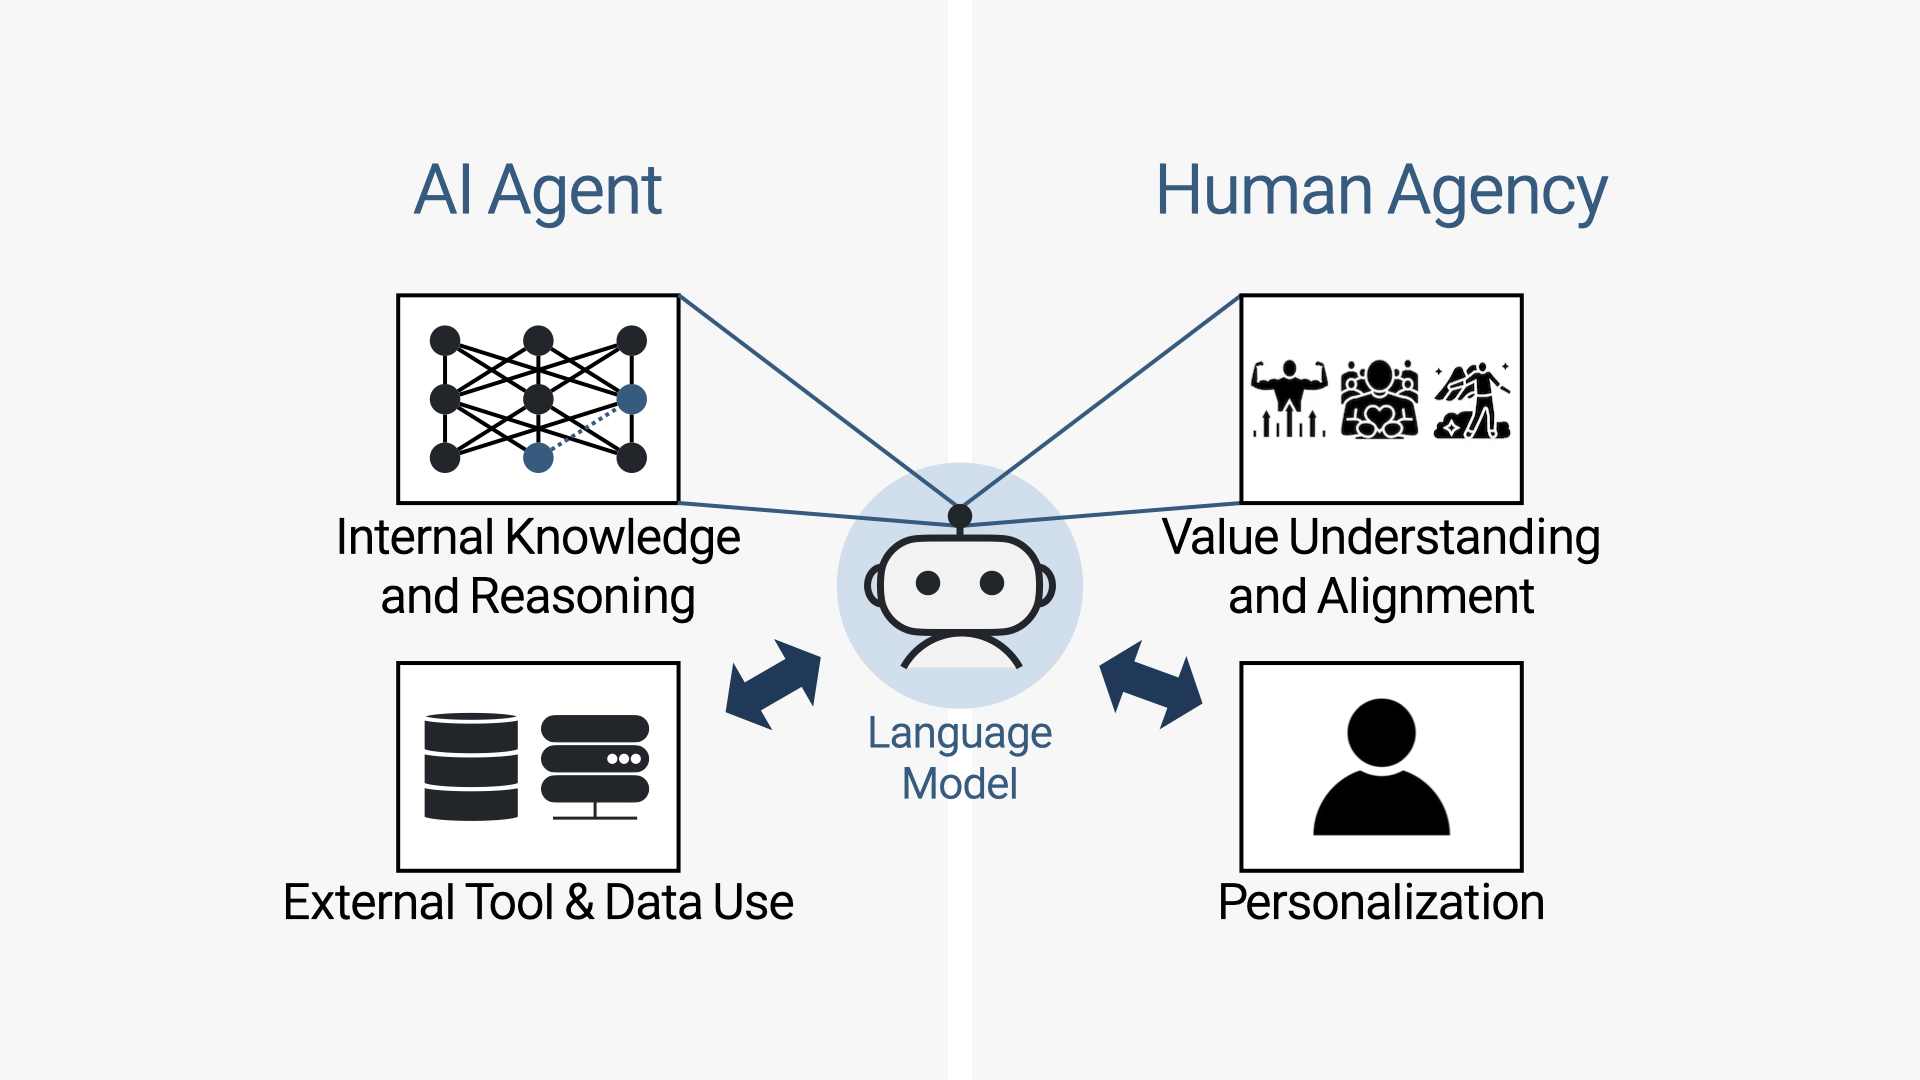
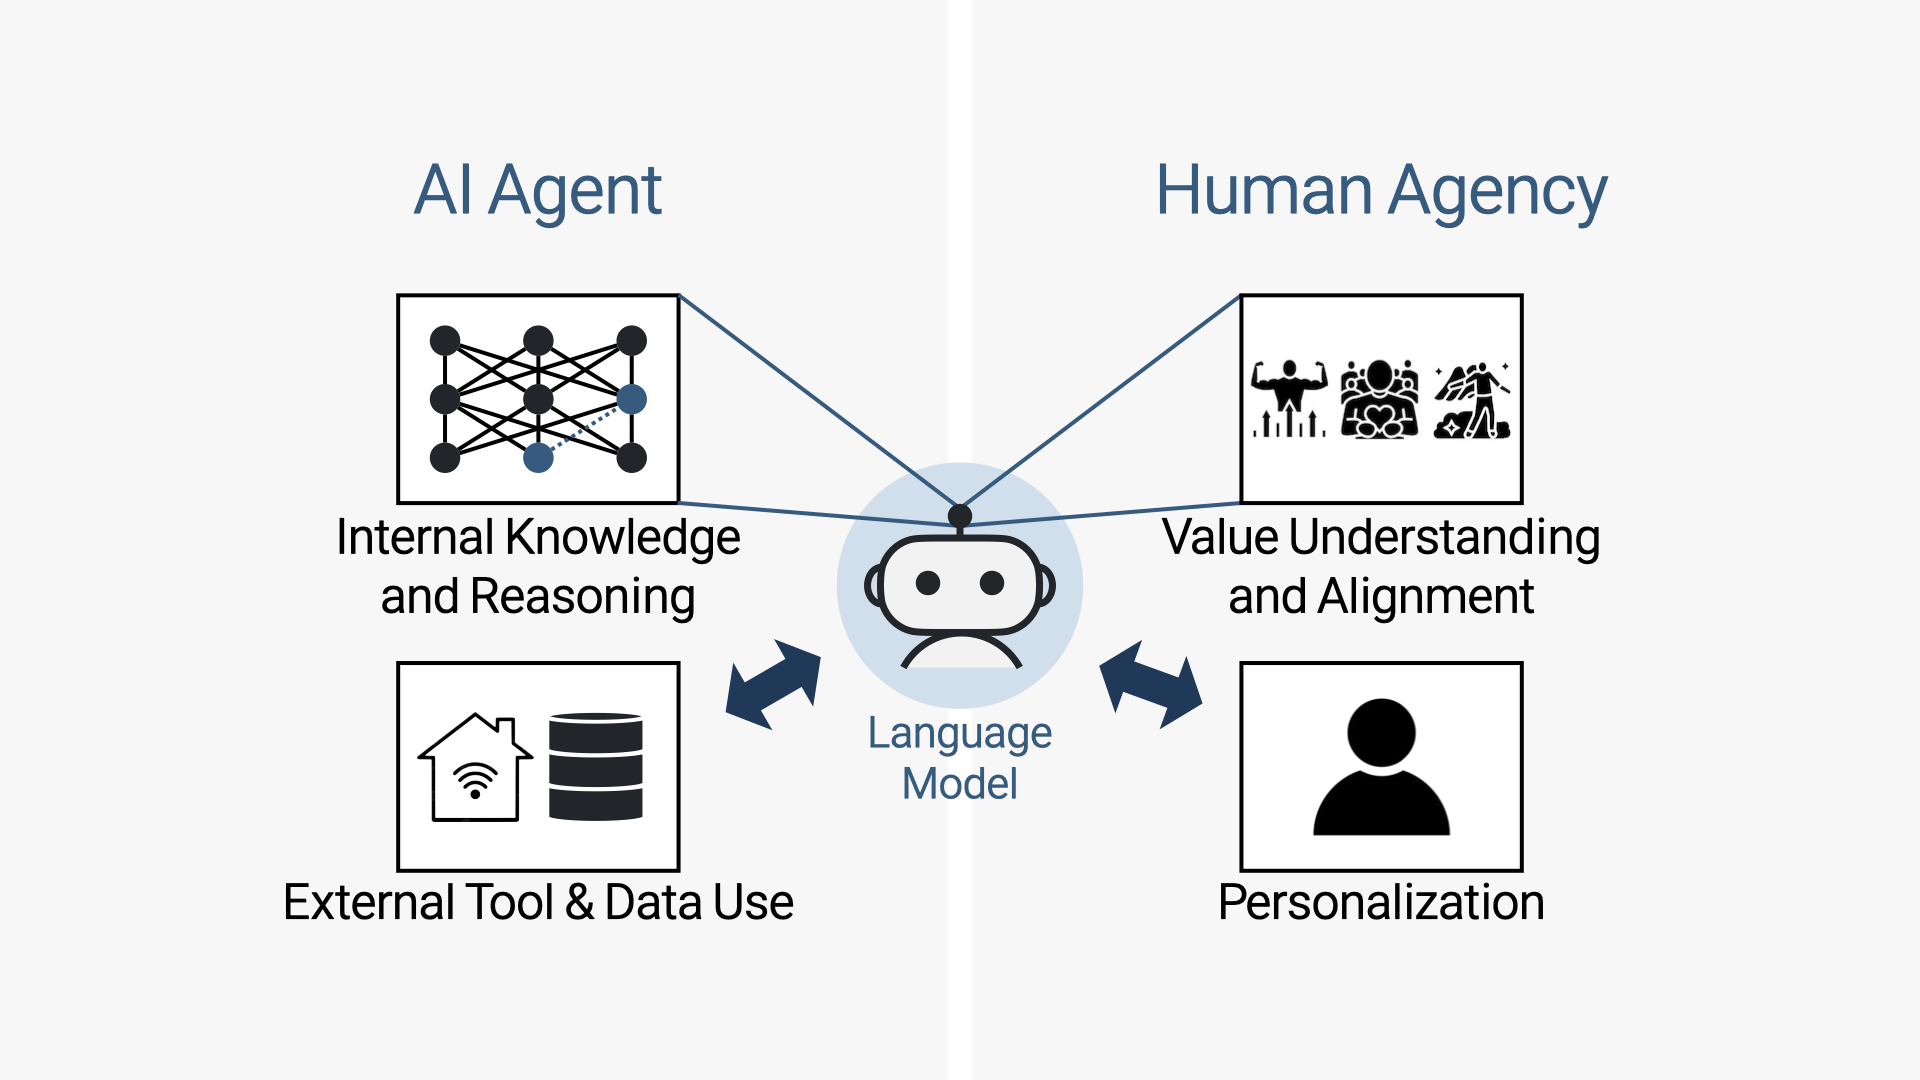
Update research topics

Changed region(s): [[0.2188, 0.6417, 0.3438, 0.7639]]

diff --git a/lab.html b/lab.html
@@ -159,6 +159,18 @@
                 <p style="text-align: right;">*Incoming Spring 2026</p>
             </div>
 
+            <!--
+            <div class="section">
+                <h2>Co-advised Students</h2>
+                <ul class="student_list">
+                    <li class="student_row"> <span class="member_name">Jiho Kim</span> <span class="member_affiliation">Artificial Intelligence (KAIST)</span> </li>
+                    <li class="student_row"> <span class="member_name">Hyunsung Bae</span> <span class="member_affiliation">Mathematical Sciences (SNU)</span> </li>
+                    <li class="student_row"> <span class="member_name">Junbo Koh</span> <span class="member_affiliation">Educational Technology (SNU)</span> </li>
+                    <li class="student_row"> <span class="member_name">Yoomin Kim</span> <span class="member_affiliation">Educational Technology (SNU)</span> </li>
+                    <li class="student_row"> <span class="member_name">Sungsik Lee</span> <span class="member_affiliation">Mathematics Education (SNU)</span> </li>
+                </ul>
+            </div>
+            -->
 
             <div class="section">
                 <h2>Alumni</h2>

diff --git a/index.html b/index.html
@@ -158,9 +158,9 @@
                 <div id="research_interests" class="section">
                     <p>If you're interested in the following research topics and are considering graduate studies at GSDS, I encourage you to intern at my lab (ideally for more than one semester). Please email me your transcript, CV, and research interests.</p>
                     <ul style="margin-left: 15px;">
-                        <li>Agents grounded in tools and multimodal data</li>
+                        <li>Agents grounded in physical devices, software tools, and multimodal data</li>
                         <li>Reasoning enhancement via RL and multi-agent simulation</li>
-                        <li>Knowledge representation and editing in language models</li>
+                        <li>Knowledge representation and editing for language models</li>
                         <li>Pluralistic value alignment and steering for language models</li>
                         <li>Personalized multimodal dialogue systems</li>
                         <li>Other AI topics</li>
